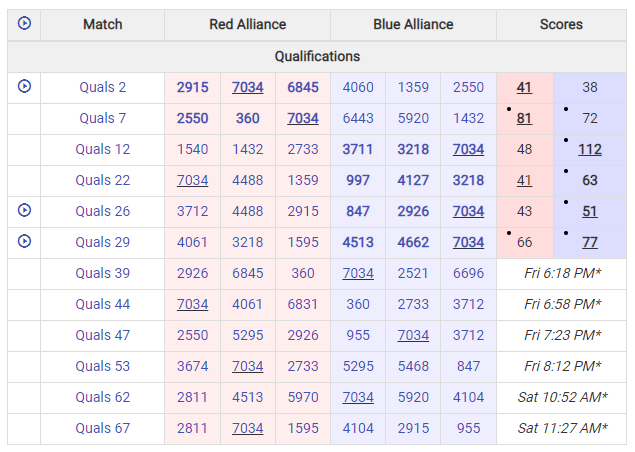
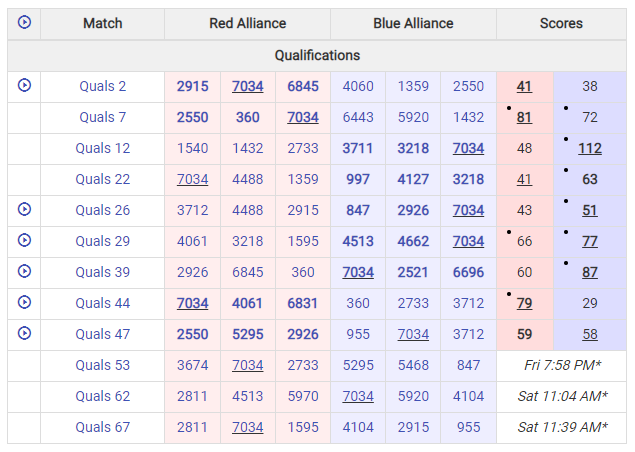
Schedule CHanfge again

diff --git a/website/src/pages/Home.js b/website/src/pages/Home.js
@@ -226,7 +226,7 @@ class Home extends Component {
                                                 <b><a href={"https://www.thebluealliance.com/team/7034"}>BLUE ALLIANCE SCHEDULE</a></b>
                                             </p>
                                             <p>
-                                                Update at 5:15 PM: "Team 7034 was <b>Rank 8</b> with a record of 5-1-0"!
+                                                Update at 7:35 PM: "Team 7034 was <b>Rank 5</b> with a record of 7-2-0"!
                                             </p>
                                             <img src={require('../artifacts/images/Competition/Schedule.png')} className="w-50"/>
                                             <br/>
